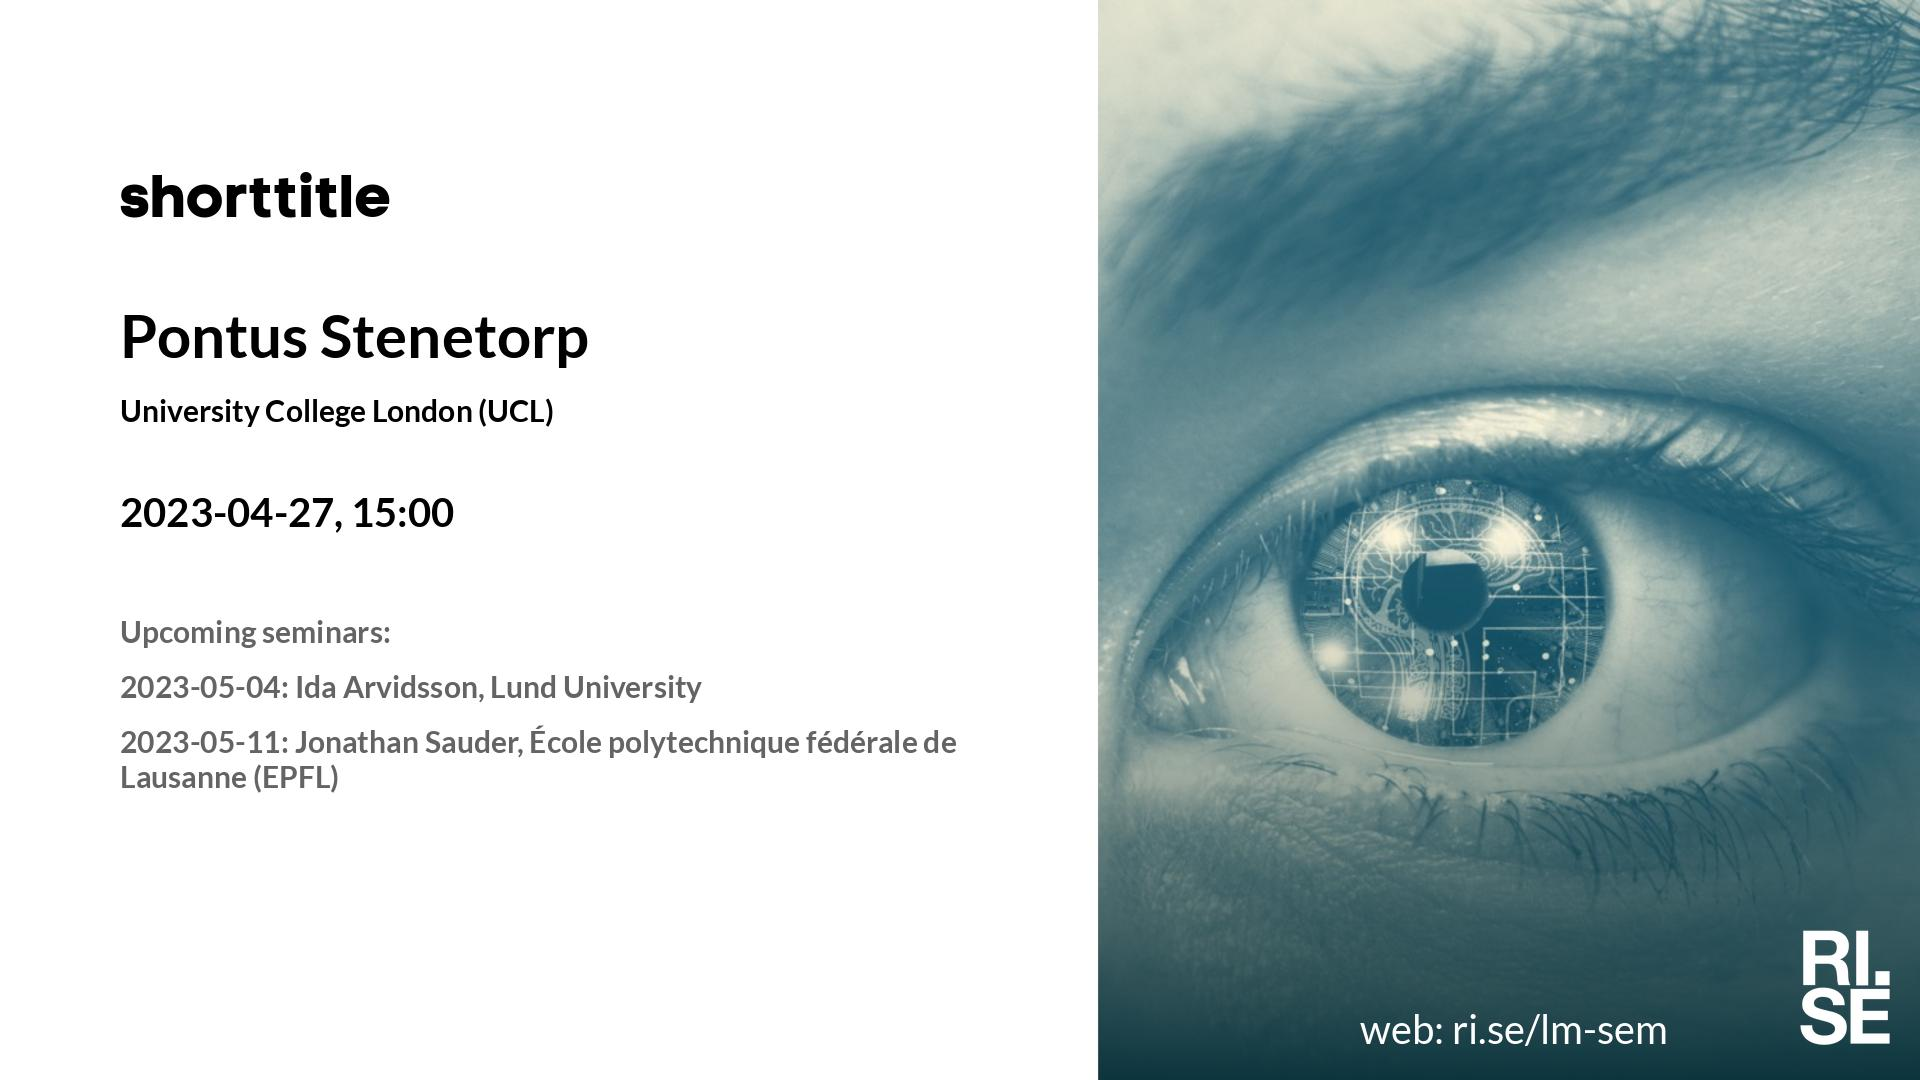
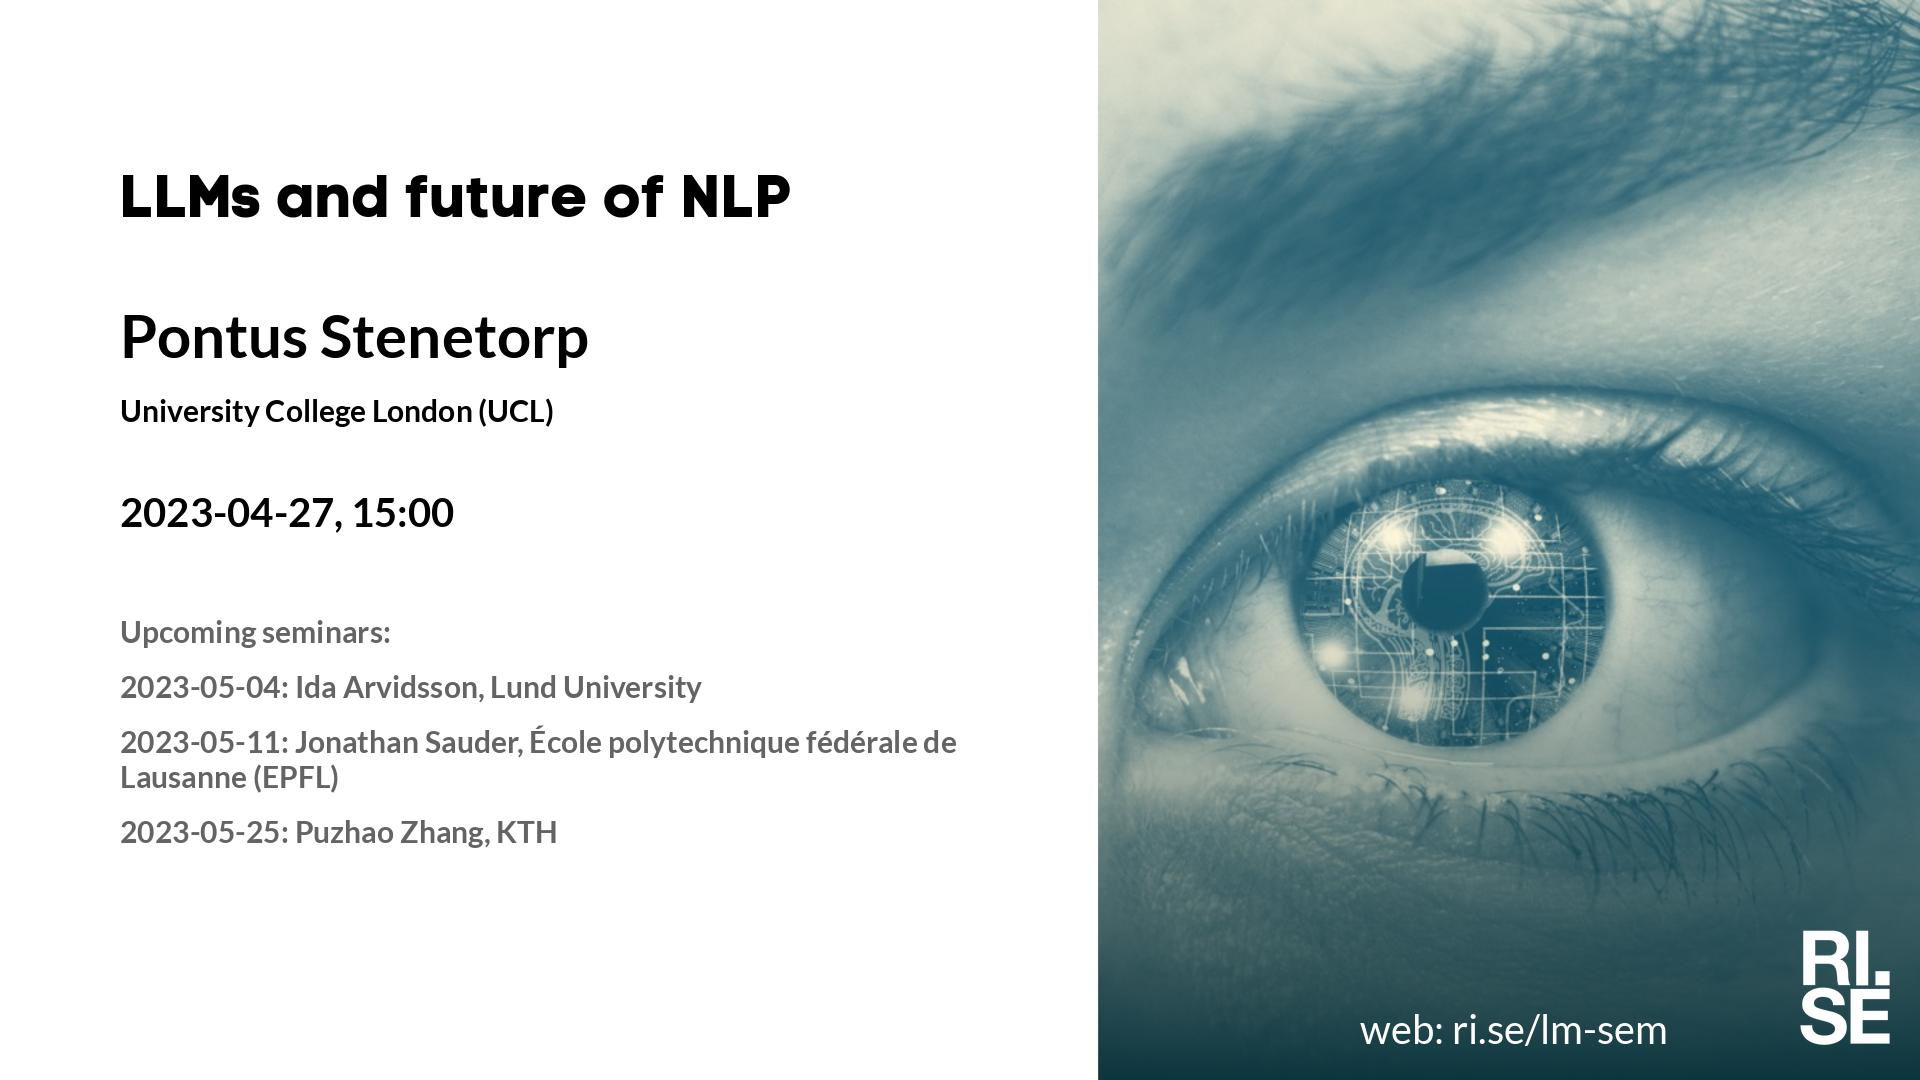
Updated plan on web site.

Changed region(s): [[0.0625, 0.1528, 0.4062, 0.2139], [0.0625, 0.7639, 0.2812, 0.7944]]

diff --git a/lm/2023-04-27.md b/lm/2023-04-27.md
@@ -4,13 +4,19 @@ metatags: "<meta name=\"robots\" content=\"noindex,nofollow\" />"
 ---
 Welcome to this week's Learning Machines seminar.
 
-**Title:** N/A
+**Title:** Large Language Models and peering into the immediate future for natural language processing as a field
 
 **Speaker:** Pontus Stenetorp, University College London (UCL)
 
-**Abstract:** N/A
+**Abstract:** Natural Language Processing (NLP) as a field (as well as Artificial Intelligence in general) is currently seemingly undergoing a phase of radical change. The reasons for these changes are several, but key factors are: recent breakthroughs in Large Language Model (LLM) performance, the rapid commoditisation of NLP systems as direct solutions to business problems, and ever-increasing computational requirements to “keep up” with the state of the art.
 
-**About the speaker:** N/A
+In this rather unorthodox talk, I will briefly touch upon recent research accomplishments of myself and my group in the context of LLMs in terms of performance and behaviour, while relating these to predictions for the models that have appeared over the last twelve months. Following this, I will move to a more speculative portion of the talk, where I ask and attempt to answer questions such as: What research questions and methodologies are likely to prove fruitful in the near future? What should (and could) our role as NLP researchers be relative to society, other fields, and industry? How do we best organise ourselves as research units and institutions given the changes that we are experiencing? My hypothesis is that we may need to fundamentally reconsider which tasks we consider relevant and how we approach them. That we better need to take into account serving societal and research (as well as practical) needs outside our immediate community. All while we likely must form larger consortia and reconsider how we organise ourselves within our research groups. I will also give concrete examples of actions taken along these lines within the UCL NLP group.
+
+I should emphasise that I, of course, lack definite answers to these questions. However, based on my own experience leading a world-leading NLP research group I have found it impossible to effectively lead the group over the last few months without at least attempting to answer these kinds of questions to be able to provide a “vision” for my fellow academics, researchers, and students. It is thus my hope that by sharing these thoughts with a wider audience that others can benefit from my own perspectives and – hopefully – provide me with perspectives of their own.
+
+**About the speaker:** Pontus SAITO STENETORP is an Associate Professor in Natural Language Processing (NLP) at the University College London (UCL) Department of Computer Science, Deputy Director of the UCL Centre for Artificial Intelligence, and UCL-Facebook AI Research PhD Programme Director. They lead the UCL NLP group and their primary research contributions and interests lie in the areas of NLP model and system development, evaluation, and analysis. Their research has received awards at leading conferences in their field: outstanding paper at EACL 2017, best paper at EACL 2021, and outstanding paper at ACL 2022. To date they have published more than 80 publications, which have been cited more than 4,800 times.
+
+Previously they have been a Postdoctoral Research Fellow at the University of Tokyo and Special Project Research Associate at the National Institute of Informatics in Tokyo, Japan. They received their PhD in Computer Science from the University of Tokyo in 2013 and MSc in Computer Science from the Royal Institute of Technology (KTH) in Stockholm, Sweden in 2010.
 
 **Location:** Isafjordsgatan 22, Kista, or online using Zoom.
 
@@ -20,6 +26,7 @@ Welcome to this week's Learning Machines seminar.
 
 * 2023-05-04: Ida Arvidsson, Lund University
 * 2023-05-11: Jonathan Sauder, École polytechnique fédérale de Lausanne (EPFL)
+* 2023-05-25: Puzhao Zhang, KTH
 
 More information and coming seminars: [https://ri.se/lm-sem](https://ri.se/lm-sem)
 

diff --git a/lm/index.md b/lm/index.md
@@ -5,12 +5,10 @@ metatags: "<meta name=\"robots\" content=\"noindex,nofollow\" />"
 <style type="text/css" scoped>
 td, th {border: 1px solid #ccc; padding: 0.6em;}
 table {border-collapse: collapse;}
-</style># Learning Machines Plan 2023-04-05
+</style># Learning Machines Plan 2023-04-20
 
 | date | speaker                                   | photo | shareable | meeting backdrop | youtube thumbnail | <a title="Speaker, Title, Abstract, Bio, Photo. Strikethrough means we don't have it yet.">comment</a>        |
 | ---- | ----------------------------------------- | ----- | ----- | ----- | ----- | -------------- |
-|  2023-03-23  |  [Gabrielle Flood, Lund University](2023-03-23.md)  |  [photo](photo-gabrielle-flood.jpg)  |  [social media ](social-media-gabrielle-flood.jpg)  |  [meeting backdrop ](meeting-backdrop-gabrielle-flood.jpg)  |  [youtube thumbnail ](youtube-thumbnail-gabrielle-flood.jpg)  |  STABP  |
-| <span style="color:red"> 2023-03-30 </span> | <span style="color:red"> *Up for grabs!!!* </span> | <span style="color:red">  </span> | <span style="color:red">  </span> | <span style="color:red">  </span> | <span style="color:red">  </span> | <span style="color:red"> CANCELLED </span> |
 | <span style="color:red"> 2023-04-06 </span> | <span style="color:red"> Påsklov/Skärtorsdag </span> | <span style="color:red">  </span> | <span style="color:red">  </span> | <span style="color:red">  </span> | <span style="color:red">  </span> | <span style="color:red"> CANCELLED </span> |
 |  2023-04-13  |  [Elijah Cole, Caltech](2023-04-13.md)  |  [photo](photo-elijah-cole.jpg)  |  [social media ](social-media-elijah-cole.jpg)  |  [meeting backdrop ](meeting-backdrop-elijah-cole.jpg)  |  [youtube thumbnail ](youtube-thumbnail-elijah-cole.jpg)  |  STABP  |
 |  2023-04-20  |  [Rico Sennrich, University of Zurich](2023-04-20.md)  |  [photo](photo-rico-sennrich.jpg)  |  [social media ](social-media-rico-sennrich.jpg)  |  [meeting backdrop ](meeting-backdrop-rico-sennrich.jpg)  |  [youtube thumbnail ](youtube-thumbnail-rico-sennrich.jpg)  |  STABP  |
